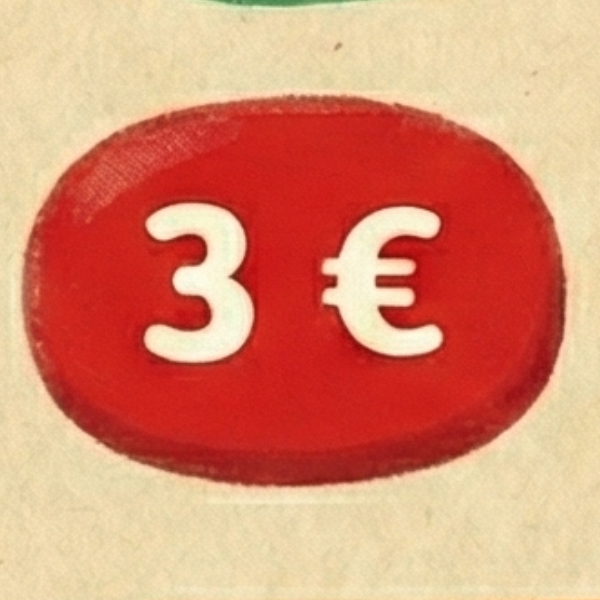
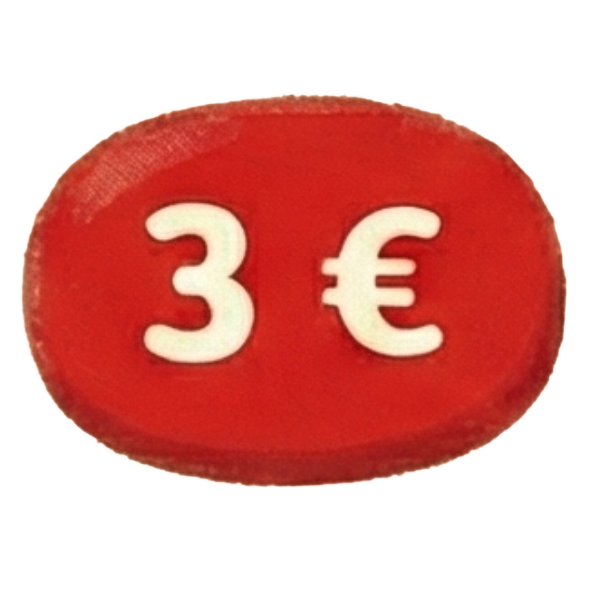
checkpoint: 📍 before asset pipeline

diff --git a/dev/ARCHITECTURE.md b/dev/ARCHITECTURE.md
@@ -128,16 +128,20 @@ transactions
 
 | Component | Status | Location |
 |-----------|--------|----------|
-| Entry Point | ✅ Stub | `main.py` |
-| Scene Manager | 🔲 | `src/scenes/` |
+| Entry Point | ✅ | `main.py` |
+| Scene Manager | ✅ | `src/scenes/manager.py` |
+| Scene Base | ✅ | `src/scenes/base.py` |
 | Input Manager | 🔲 | `src/utils/input.py` |
-| Database | 🔲 | `src/utils/database.py` |
+| Database | ✅ | `src/utils/database.py` |
 | UI Components | 🔲 | `src/components/` |
 | Scenes | 🔲 | `src/scenes/*.py` |
+| **Assets** | | |
+| Master Assets | ✅ | `assets/master/` (155 Dateien) |
+| Scaled Assets | 🔲 | `assets/S/`, `assets/M/`, `assets/L/` (via `/img`) |
+| Asset Loader | 🔲 | `src/utils/assets.py` |
 | **Data & Tools** | | |
-| YAML Definitions | 🔲 | `data/*.yaml` |
+| DB Seed Script | ✅ | `tools/seed_database.py` |
 | Barcode Generator | 🔲 | `tools/generate_barcodes.py` |
-| DB Seed Script | 🔲 | `tools/seed_database.py` |
 | **Admin System** | | |
 | Admin Scene | 🔲 | `src/scenes/admin.py` |
 | WiFi Hotspot | 🔲 | `src/utils/wifi.py` |
@@ -169,7 +173,28 @@ transactions
 - **Scenes** handle their own input, update, render
 - **Components** are reusable UI pieces (buttons, lists)
 - **Utils** are stateless helpers
-- **Assets** loaded once at startup, cached globally
+- **Assets** vorskaliert in S/M/L, geladen beim Startup, gecached in dict
+
+### Asset Pipeline (Dreischritt)
+
+```
+assets/master/        →  assets/nobg/         →  assets/S/, M/, L/
+(Original, NIEMALS      (Hintergrund           (skaliert: 30/60/120px)
+ verändern!)             entfernt)
+```
+
+**Schritt 1:** Hintergrund entfernen
+**Schritt 2:** Skalieren in drei Größen
+
+**Ausnahmen:**
+- `buttons/` — bereits transparent, direkt skalieren
+- `frames/` — bereits transparent, NICHT skalieren (UI-Rahmen, volle Größe)
+
+**Loader-Aufrufe:**
+```python
+assets.get("products/milk", "M")  →  assets/M/products/milk.png
+assets.get("frames/red")          →  assets/nobg/frames/red.png  # keine Größe
+```
 
 ---
 
@@ -288,7 +313,11 @@ data/
 └── kasse.db               # SQLite (generiert aus YAML)
 
 assets/
-└── products/              # Produkt-Bilder (Upload via Web-UI)
+├── master/                # Original-Assets (NIEMALS verändern!)
+├── nobg/                  # Hintergrund entfernt (via /img)
+├── S/                     # Skaliert 30×30 (via /img)
+├── M/                     # Skaliert 60×60 (via /img)
+└── L/                     # Skaliert 120×120 (via /img)
 
 src/
 ├── admin/                 # Admin-Server

diff --git a/dev/PLAN.md b/dev/PLAN.md
@@ -4,8 +4,8 @@
 
 | # | Phase | Status | Goal |
 |---|-------|--------|------|
-| 1 | Foundation | 🔲 | App runs, handles input, basic UI |
-| 1.5 | Data Setup | 🔲 | YAML structure, barcode tools, DB seed |
+| 1 | Foundation | ✅ | App runs, handles input, basic UI |
+| 1.5 | Data Setup | ✅ | Assets organisiert, DB seed |
 | 2 | Core Shopping | 🔲 | Scan → Cart → Checkout flow |
 | 3 | User System | 🔲 | Login, balance, persistence |
 | 4 | Game Modes | 🔲 | Recipe mode, math games |
@@ -14,38 +14,35 @@
 
 ---
 
-## Phase 1: Foundation
+## Phase 1: Foundation ✅
 
 **Goal:** App runs, handles all input types, shows basic UI
 
-- [ ] Pygame window (800x480)
-- [ ] Scene manager
+- [x] Pygame window (1024x600)
+- [x] Scene manager
 - [ ] Input abstraction (barcode, numpad, touch)
 - [ ] Basic UI components
-- [ ] Asset loading
+- [ ] Asset loading (vorskaliert via `/img`, dann simpler Loader)
 
 **Exit:** App starts, scenes switch, all inputs work
 
 ---
 
-## Phase 1.5: Data & Barcode Setup
+## Phase 1.5: Data & Asset Setup ✅
 
-**Goal:** Data infrastructure for products and users
+**Goal:** Data infrastructure and assets prepared
 
-- [ ] YAML-Struktur definieren (`data/products.yaml`, `data/users.yaml`)
+- [x] 155 Master-Assets organisiert (`assets/master/`)
+- [x] DB-Seed Skript (`tools/seed_database.py`)
+- [x] Test-Daten erstellt (26 Produkte, 4 User, 5 Rezepte)
+- [ ] Asset-Pipeline via `/img` Skill (Dreischritt)
+  - `assets/master/` bleibt IMMER unverändert (Source of Truth)
+  - Schritt 1: Hintergrund entfernen → `assets/nobg/`
+  - Schritt 2: Skalieren → `assets/S/` (30px), `assets/M/` (60px), `assets/L/` (120px)
+  - Ausnahmen: `buttons/` bereits transparent, `frames/` nicht skalieren
 - [ ] Barcode-Generator Tool (`tools/generate_barcodes.py`)
-  - python-barcode Library
-  - EAN-13 für Produkte
-  - Custom-Format für Karten
-- [ ] DB-Seed Skript (`tools/seed_database.py`)
-  - YAML → SQLite Import
-  - Idempotent (kann mehrfach ausgeführt werden)
-- [ ] Test-Daten erstellen
-  - 10-15 Produkte
-  - 2-3 User (Carolin, Annelie, Gast)
-  - 1 Admin-Karte
 
-**Exit:** `uv run python tools/seed_database.py` erstellt funktionierende DB
+**Exit:** `uv run python tools/seed_database.py` erstellt funktionierende DB ✅
 
 ---
 

diff --git a/dev/HANDOVER.md b/dev/HANDOVER.md
@@ -61,17 +61,36 @@
 Pygame-UI basierend auf Mockups implementieren.
 
 ### Reihenfolge
-1. **Asset Loader** — `src/utils/assets.py`
-   - Master-Dateien laden
-   - Auf S/M/L skalieren
-   - Caching
+1. **Asset-Pipeline** — via `/img` Skill (Dreischritt)
 
-2. **Hauptmenü** — `src/scenes/menu.py`
+   ```
+   assets/master/     →  assets/nobg/      →  assets/S/, M/, L/
+   (Original)            (ohne Hintergrund)   (skaliert)
+   ```
+
+   **Schritt 1:** Hintergrund entfernen → `assets/nobg/`
+   **Schritt 2:** Skalieren → `assets/S/` (30px), `assets/M/` (60px), `assets/L/` (120px)
+
+   **Wichtig:**
+   - `assets/master/` bleibt IMMER unverändert (Source of Truth)
+   - Ermöglicht Neubearbeitung bei Bedarf
+
+   **Ausnahmen (bereits ohne Hintergrund):**
+   - `buttons/` — direkt skalieren
+   - `frames/` — NICHT skalieren (UI-Rahmen, volle Größe)
+
+2. **Asset Loader** — `src/utils/assets.py`
+   - Lädt vorskalierte Bilder (kein Runtime-Scaling)
+   - Simples Caching (dict)
+   - `assets.get("products/milk", "M")` → `assets/M/products/milk.png`
+   - `assets.get("frames/red")` → `assets/nobg/frames/red.png` (keine Größe)
+
+3. **Hauptmenü** — `src/scenes/menu.py`
    - 4 Tiles (Einkauf, Rezept, Rechenspiel, Kassiererin)
    - Touch-Navigation
    - Siehe `ui/05_main_menu.png`
 
-3. **Scan-Screen** — `src/scenes/scan.py`
+4. **Scan-Screen** — `src/scenes/scan.py`
    - Produktliste mit Zähler
    - User-Badge (Rahmenfarbe)
    - +/- Buttons

diff --git a/.claude/rules/python.md b/.claude/rules/python.md
@@ -1,0 +1,51 @@
+# Python Stack Rules
+
+## Package Management
+
+- **ALWAYS** use `uv` (never pip!)
+- Add dependencies: `uv add <package>`
+- Run scripts: `uv run python <script>`
+
+## Code Quality
+
+```bash
+# Lint
+uv run ruff check src/
+
+# Format
+uv run ruff format src/
+
+# Both
+uv run ruff check src/ && uv run ruff format src/
+```
+
+## Style
+
+- Python 3.12+
+- Type hints on all functions
+- Docstrings for public functions (English)
+- Max line length: 88 (ruff default)
+
+## Pygame Specifics
+
+- No type stubs available → skip ty for now
+- Manual testing instead of unit tests
+- Use `pygame.SCALED` for resolution independence
+
+## Common Patterns
+
+```python
+# Early returns
+def process_input(event: pygame.event.Event) -> bool:
+    if event.type != pygame.KEYDOWN:
+        return False
+    # ... handle keydown
+
+# Type hints
+def load_product(barcode: str) -> Product | None:
+    ...
+
+# Constants at module level
+SCREEN_WIDTH = 800
+SCREEN_HEIGHT = 480
+```

diff --git a/.claude/commands/start.md b/.claude/commands/start.md
@@ -1,0 +1,36 @@
+# Session Start
+
+Before writing any code, build context by answering these questions:
+
+## 1. WHERE am I? (Plan)
+Read `dev/PLAN.md`
+- Which phase is active?
+- What's the goal of this phase?
+
+## 2. HOW does it fit? (Architecture)
+Read `dev/ARCHITECTURE.md`
+- Which component am I working on?
+- How does it connect to other parts?
+- Is the architecture still accurate?
+
+## 3. WHAT happened? (Handover)
+Read `dev/HANDOVER.md`
+- What was done last session?
+- Any unfinished work?
+- Any warnings or hints?
+
+## 4. WHAT's messy? (Refactoring)
+Look at relevant code:
+- What's currently unclear or duplicated?
+- Can this feature simplify existing code?
+- Any TODOs or FIXMEs to address?
+
+## 5. WHAT now? (Task)
+Now define your task:
+- What exactly will I build?
+- What files will I touch?
+- What's the smallest working increment?
+
+---
+
+**Then:** `gh issue list` for open issues, `git status` for uncommitted work.
